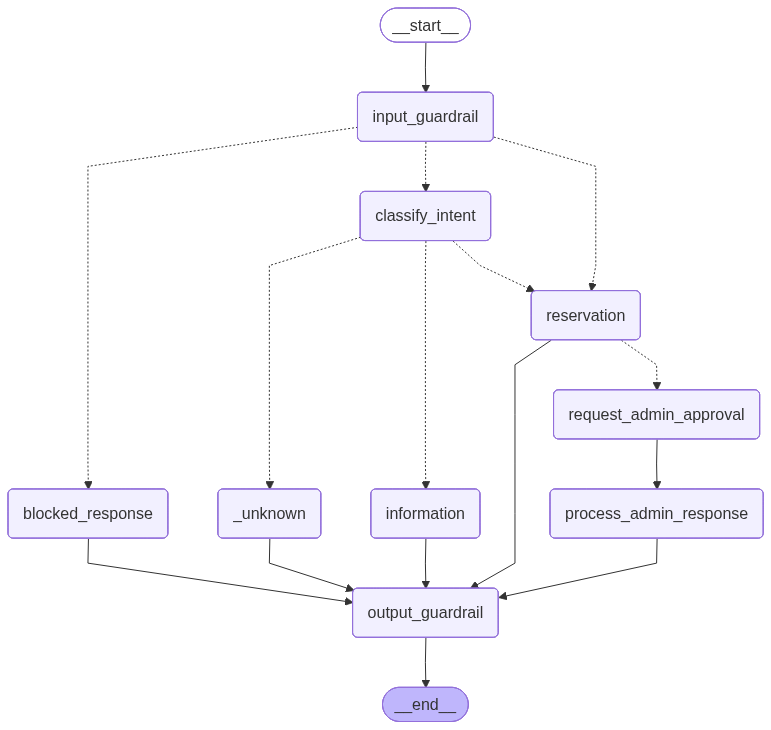
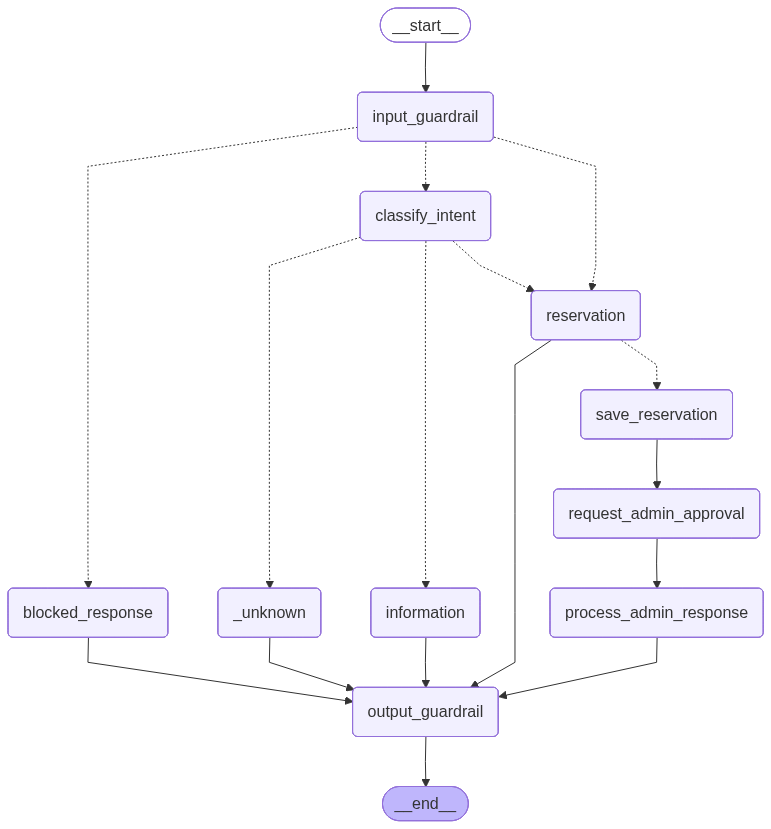
stage 2: add workflows, update presentation

diff --git a/chatbot/nodes.py b/chatbot/nodes.py
@@ -29,7 +29,7 @@ from chatbot.states import (
     UserIntentDecision,
     ReservationPhase,
 )
-from chatbot.graph_utils import get_llm, last_ai, now
+from chatbot.utils.graph_utils import get_llm, last_ai, now
 from chatbot.guardrail.filtering import get_guardrail
 from chatbot.logging import logger
 
@@ -265,21 +265,42 @@ def summarize_reservation(reservation_details: dict) -> str:
     )
 
 
-# --------------------------------------------------------------------------- #
-# Admin
-# --------------------------------------------------------------------------- #
 def save_reservation(reservation_details: dict) -> int:
     response = get_parking_data_db().write_reservation(reservation_details)
     reservation_id = response[0]["id"]
     return reservation_id
 
 
+def save_reservation_node(state: GraphState) -> dict:
+    reservation_details = state["reservation_details"]
+    try:
+        # save as pending
+        reservation_id = save_reservation(reservation_details)
+        return {
+            "reservation_id": reservation_id,
+            "reservation_status": ReservationStatus.PENDING,
+        }
+    except GraphInterrupt as e:
+        raise e
+    except Exception as e:
+        logger.error("Failed to save reservation: %s", e)
+        return {
+            "route": None,
+            "reservation_phase": None,
+            "reservation_details": {},
+            "ai_message": "Failed to request admin approval. Please try again later",
+        }
+
+
+# --------------------------------------------------------------------------- #
+# Admin
+# --------------------------------------------------------------------------- #
 def request_admin_approval_node(state: GraphState, config: RunnableConfig) -> dict:
     calling_thread_id = config["configurable"]["thread_id"]
     reservation_details = state["reservation_details"]
 
     try:
-        reservation_id = save_reservation(state["reservation_details"])
+        reservation_id = state["reservation_id"]
         request_id = f"admin-request-{reservation_id}"
         interrupt_payload = {
             "calling_thread_id": calling_thread_id,
@@ -300,7 +321,7 @@ def request_admin_approval_node(state: GraphState, config: RunnableConfig) -> di
             "route": None,
             "reservation_phase": None,
             "reservation_details": {},
-            "ai_message": "Failed to request admin approval. Please try again later",
+            "ai_message": "Failed to save reservation. Please try again later",
         }
 
 
@@ -363,5 +384,5 @@ def after_classify_intent_router(state: GraphState) -> str:
 def after_reservation_router(state: GraphState) -> str:
     reservation_phase = state.get("reservation_phase", None)
     if reservation_phase == ReservationPhase.REGUESTING_APROVAL:
-        return "request_admin_approval"
+        return "save_reservation"
     return "output_guardrail"

diff --git a/chatbot/graph.py b/chatbot/graph.py
@@ -13,6 +13,7 @@ from chatbot.nodes import (
     request_admin_approval_node,
     unknown_node,
     create_reservation_node,
+    save_reservation_node,
     after_classify_intent_router,
     qa_system_rag_node
 )
@@ -39,6 +40,7 @@ def build_graph(checkpointer: PostgresSaver) -> CompiledStateGraph:
 
     # Reservation nodes
     g.add_node("reservation", create_reservation_node)
+    g.add_node("save_reservation", save_reservation_node)
     g.add_node("request_admin_approval", request_admin_approval_node)
     g.add_node("process_admin_response", process_admin_response_node)
 
@@ -78,10 +80,12 @@ def build_graph(checkpointer: PostgresSaver) -> CompiledStateGraph:
         "reservation",
         after_reservation_router,
         {
-            "request_admin_approval": "request_admin_approval",
+            "save_reservation": "save_reservation",
             "output_guardrail": "output_guardrail",
         }
     )
+    # ignore interrupted node rerun
+    g.add_edge("save_reservation", "request_admin_approval")
     g.add_edge("request_admin_approval", "process_admin_response")
     g.add_edge("process_admin_response", "output_guardrail")
 

diff --git a/admin.py b/admin.py
@@ -4,7 +4,7 @@ from langgraph.types import Command
 from chatbot.graph import build_graph
 from chatbot.notifier import RequestType, get_notifier
 from chatbot.states import ReservationStatus
-from chatbot.graph_utils import get_checkpointer
+from chatbot.utils.graph_utils import get_checkpointer
 from chatbot.logging import logger
 from chatbot.settings import get_settings
 

diff --git a/chatbot/scripts/init_checkpoiter.py b/chatbot/scripts/init_checkpoiter.py
@@ -1,4 +1,4 @@
-from chatbot.graph_utils import get_checkpointer
+from chatbot.utils.graph_utils import get_checkpointer
 from chatbot.settings import get_settings
 
 

diff --git a/chatbot/utils/evaluation_utils.py b/chatbot/utils/evaluation_utils.py
@@ -8,7 +8,7 @@ from pydantic import BaseModel
 from chatbot.database.retriever import ParkingInformationRetriever
 from chatbot.prompts import RAG_SUMMARIZATION_PROMPT_TMPL
 
-from chatbot.graph_utils import get_llm
+from chatbot.utils.graph_utils import get_llm
 from chatbot.scripts.ingest_static_data import load_static_data
 from chatbot.settings import get_settings
 

diff --git a/client.py b/client.py
@@ -12,7 +12,7 @@ from chatbot.database.sql_store import get_parking_data_db
 from chatbot.graph import build_graph
 from chatbot.notifier import Notifier, RequestType, get_notifier
 from chatbot.states import GraphState
-from chatbot.graph_utils import get_checkpointer
+from chatbot.utils.graph_utils import get_checkpointer
 from chatbot.settings import get_settings
 
 

diff --git a/tests/test_smoke.py b/tests/test_smoke.py
@@ -1,0 +1,2 @@
+def test_dummy():
+    assert True

diff --git a/chatbot/states.py b/chatbot/states.py
@@ -39,6 +39,7 @@ RESERVATION_FIELD_DESCRIPTIONS = {
 
 
 class ReservationStatus(Enum):
+    PENDING = "pending"
     APPROVED = "approved"
     REJECTED = "rejected"
 

diff --git a/README.md b/README.md
@@ -61,7 +61,6 @@ Reservations pause the graph mid-run via LangGraph's `interrupt()`. A PostgreSQL
 │   │   └── run_evaluation.py            # RAG + LLM quality evaluation
 │   ├── utils/                           # Shared utilities and evaluation helpers
 │   ├── graph.py                         # LangGraph state graph definition
-│   ├── graph_utils.py                   # LLM factory, checkpointer factory, misc helpers
 │   ├── nodes.py                         # LangGraph node implementations
 │   ├── notifier.py                      # Filesystem-based request/response mailbox (client ↔ admin)
 │   ├── prompts.py                       # Prompt templates